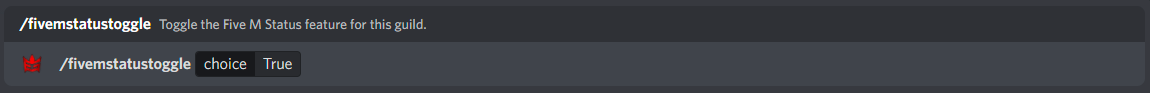
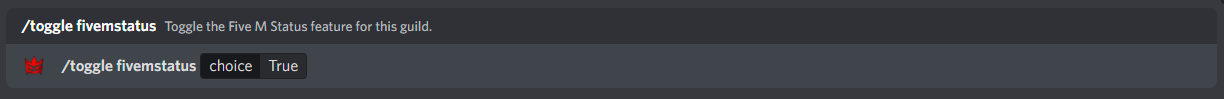
(v2.2.7) Match new toggle subcommands
+ Changed all feature pages to match the new toggle subcommands.

Changed region(s): [[0.0, 0.5376, 0.2739, 0.8387], [0.0, 0.1935, 0.3957, 0.3441]]

diff --git a/docs/configurationcommands.md b/docs/configurationcommands.md
@@ -11,18 +11,18 @@ All commands are listed in alphabetical order! Each command comes with an exampl
 | Command        |    Example    |  Usage  |  Permission  |  Timeout  |
 | -------------  | :-----------: | -----  |  ----------  |  -------  |
 | /configinfo    | /configinfo | Return information about your guild's configuration of Elite Bot! | N/A | N/A |
-| /createvctoggle    | /createvctoggle [true/false] | Toggle the the create voice chat feature for this guild. | N/A | N/A |
+| /toggle createvc    | /toggle createvc [true/false] | Toggle the the create voice chat feature for this guild. | N/A | N/A |
 | /djrole        | /djrole [@role] | Set your DJ role for the music feature! | Manage Roles | N/A |
-| /djtoggle    | /djtoggle [true/false] | Toggle DJ for the music feature! | Administrator | N/A |
+| /toggle djonly    | /toggle djonly [true/false] | Toggle DJ for the music feature! | Administrator | N/A |
 | /fivemstatusconfig    | /fivemstatusconfig [#channel] [serverip] | Set the Five M status channel and server IP for the guild. | Administrator | N/A |
 | /fivemstatusembed    | /fivemstatusembed [title] [description] | Customise the description of the Five M status embed. | Administrator | N/A |
 | /fivemstatusresend    | /fivemstatusresend | Customise the description of the Five M status embed. | Administrator | N/A |
-| /fivemstatustoggle    | /fivemstatustoggle [true/false] | Toggle the Five M Status feature for this guild. | Administrator | N/A |
+| /toggle fivemstatus    | /toggle fivemstatus [true/false] | Toggle the Five M Status feature for this guild. | Administrator | N/A |
 | /joinroleadd    | /joinroleadd [@role] | Add a role to give to users on join to this guild. | Manage Roles | N/A |
 | /joinrolecheck    | /joinrolecheck | Check the roles that are given to users on join to this guild. | Manage Roles | N/A |
 | /joinroleremove    | /joinroleremove [@role] | Remove a role to give to users on join from this guild. | Manage Roles | N/A |
 | /logchannel    | /logchannel [#channel] | Set the logs channel for the guild. | Administrator | N/A |
-| /logtoggle    | /logtoggle [true/false] | Toggle the log feature for this guild. | Administrator | N/A |
+| /toggle logging    | /toggle logging [true/false] | Toggle the log feature for this guild. | Administrator | N/A |
 | /roleselectionadd    | /roleselectionadd [menuname] [@role] [description] [emoji] | Add a role into the role selection menu. | Manage Roles | N/A |
 | /roleselectioncheck    | /roleselectioncheck | Check the current role selection menus in your guild! | Manage Roles | N/A |
 | /roleselectioncreate    | /roleselectioncreate [menuname] [menudescription] | Create a new role selection menu. | Administrator | N/A |
@@ -30,15 +30,15 @@ All commands are listed in alphabetical order! Each command comes with an exampl
 | /roleselectionmenu    | /roleselectionmenu [menuname] | Generate a role selection menu! | Manage Roles | N/A |
 | /roleselectionremove    | /roleselectionremove [menuname] [@role] | Remove a role into the role selection menu. | Manage Roles | N/A |
 | /suggestionchannel    | /suggestionchannel [#channel] | Set the welcome channel for the guild. | Administrator | N/A |
-| /suggestiontoggle    | /suggestiontoggle [true/false] | Toggle the suggestion feature for this guild. | Administrator | N/A |
+| /toggle suggestion    | /toggle suggestion [true/false] | Toggle the suggestion feature for this guild. | Administrator | N/A |
 | /verificationmenu    | /verificationmenu | Post the verificaiton menu for this guild. | Manage Guild | N/A |
 | /verificationsettings    | /verificationsettings [description] [roletogive] | Adjust the Verification feature settings for this guild. | Administrator | N/A |
-| /verificationtoggle    | /verificationtoggle [true/false] | Toggle the Verification feature for this guild. | Administrator | N/A |
-| /voicecounttoggle    | /voicecounttoggle [true/false] | Toggle the voice chat member count feature for this guild. | Administrator | N/A |
+| /toggle verification    | /toggle verification [true/false] | Toggle the Verification feature for this guild. | Administrator | N/A |
+| /toggle voicecount    | /toggle voicecount [true/false] | Toggle the voice chat member count feature for this guild. | Administrator | N/A |
 | /welcomechannel    | /welcomechannel [#channel] | Set the welcome channel for the guild. | Administrator | N/A |
 | /welcomeembed    | /welcomeembed [title] [description] | Customise some features of the welcome embed for your guild. | Administrator | N/A |
-| /welcometoggle    | /welcometoggle [true/false] | Toggle the welcome feature for this guild. | Administrator | N/A |
+| /toggle welcome    | /toggle welcome [true/false] | Toggle the welcome feature for this guild. | Administrator | N/A |
 | /xproleadd    | /xproleadd [level] [@role] | Add a role to give to users when reaching a level threshold. | Manage Roles | N/A |
 | /xproleremove    | /xproleremove [@role] | Remove a role to give to users when reaching a level threshold. | Manage Roles | N/A |
 | /xpsystemsettings    | /xpsystemsettings [xpmin] [xpmax] [xpmultiplier] [#levelupchannel] [intervalvc] [#afkvc] | Customise settings for the XP system feature for your guild. | Administrator | N/A |
-| /xpsystemtoggle    | /xpsystemtoggle [true/false] | Toggle the XP system feature for this guild. | Administrator | N/A |
+| /toggle xpsystem    | /toggle xpsystem [true/false] | Toggle the XP system feature for this guild. | Administrator | N/A |

diff --git a/docs/utilitiescommands.md b/docs/utilitiescommands.md
@@ -13,14 +13,14 @@ All commands are listed in alphabetical order! Each command comes with an exampl
 | /about        | /about | Information about Elite Bot! | N/A | N/A |
 | /avatar        | /avatar [@user] | What user's avatar should be returned? | N/A | N/A |
 | /botinfo        | /botinfo | Return information about Elite Bot! | N/A | N/A |
-| /bugreport        | /bugreport [title] [description] [Option: imgurl] | Have you encountered a bug? Use this command to send a bug report directly to the developer. | N/A | N/A |
+| /bugreport        | /bugreport [title] [description] [reapeatability: once, few times, always] [Optional: imgurl] | Have you encountered a bug? Use this command to send a bug report directly to the developer. | N/A | N/A |
 | /giveawayedit        | /giveawayedit [giveawayid] [changeprize/winneramount/addtime/subtime] | Edit the prize of a giveaway now within your guild. | Manage Events | N/A |
 | /giveawayend        | /giveawayend [giveawayid] | End a giveaway now within your guild. | Manage Events | N/A |
 | /giveawayreroll        | /giveawayreroll [giveawayid] [howmany] | Re-roll a giveaway within your guild. | Manage Events | N/A |
 | /giveawaystart        | /giveawaystart [duration] [prize] [winners] [#channel] | Start a new giveaway for your guild. | Manage Events | N/A |
 | /help        | /help | Get information about my commands! | N/A | N/A |
-| /quickpoll        | /quickpoll [choice1] [choice2] [#channel] | Create a 2 choice quick poll in a channel! | N/A | N/A |
-| /shortenurl        | /shortenurl [url] | UNDER DEVELOPMENT - Shorten a long URL. | N/A | N/A |
+| /quickpoll        | /quickpoll [question] [choice1] [choice2] [#channel] | Create a 2 choice quick poll in a channel! | N/A | N/A |
+| /shortenurl        | /shortenurl [url] | Shorten a long URL. Powered by teamsnaily.com | N/A | N/A |
 | /suggest        | /suggest [title] [description] | Suggest something within this guild. | N/A | N/A |
 | /userinfo        | /userinfo [@user] | Return information about a user's Discord account! | N/A | N/A |
 | /xpcurrent        | /xpcurrent [@user] | Check the XP of any user in the guild. | N/A | N/A |

diff --git a/docs/fivemstatusfeature.md b/docs/fivemstatusfeature.md
@@ -12,7 +12,7 @@ This feature is useful for Discord servers that run a Five M (GTA V Modification
 
 ## Enabling Five M Server Status
 
-By default, the Five M Server Status is toggled off. Firstly, use the "/fivemstatustoggle" command within your guild returning true to enable (or false to disable).
+By default, the Five M Server Status is toggled off. Firstly, use the "/toggle fivemstatus" command within your guild returning true to enable (or false to disable).
 
 An Example of toggling the Five M Server Status:
 

diff --git a/docs/vccreatefeature.md b/docs/vccreatefeature.md
@@ -8,7 +8,7 @@ slug: /vc-create-feature
 
 (sorry for the mega weird feature name, had no clue what to name it :D)
 
-By default, the Join to Create VC Feature is toggled off. You can use the "/createvctoggle" command within your guild returning true to enable (or false to disable).
+By default, the Join to Create VC Feature is toggled off. You can use the "/toggle createvc" command within your guild returning true to enable (or false to disable).
 
 An Example of toggling the Join to Create VC feature:
 

diff --git a/docs/vcmembercountfeature.md b/docs/vcmembercountfeature.md
@@ -6,7 +6,7 @@ slug: /vc-member-count-feature
 
 ## Configuring the Member Count
 
-By default, the Member Count Feature is toggled off. You can use the "/voicecounttoggle" command within your guild returning true to enable (or false to disable).
+By default, the Member Count Feature is toggled off. You can use the "/toggle voicecount" command within your guild returning true to enable (or false to disable).
 
 An Example of toggling the Member Count feature:
 

diff --git a/docs/welcomefeature.md b/docs/welcomefeature.md
@@ -6,7 +6,7 @@ slug: /welcome-feature
 
 ## Enabling the Welcome Feature
 
-By default, the Welcome feature is toggled off. Firstly, use the "/welcometoggle" command within your guild returning true to enable (or false to disable).
+By default, the Welcome feature is toggled off. Firstly, use the "/toggle welcome" command within your guild returning true to enable (or false to disable).
 
 An Example of toggling the Welcome feature:
 

diff --git a/docs/loggingfeature.md b/docs/loggingfeature.md
@@ -6,7 +6,7 @@ slug: /logging-feature
 
 ## Enabling Logging Feature
 
-By default, the logging feature is toggled off. Firstly, use the "/logtoggle" command within your guild returning true to enable (or false to disable).
+By default, the logging feature is toggled off. Firstly, use the "/toggle logging" command within your guild returning true to enable (or false to disable).
 
 An Example of toggling the XP System:
 

diff --git a/docs/xpsystem.md b/docs/xpsystem.md
@@ -6,7 +6,7 @@ slug: /xp-system
 
 ## Enabling the XP System
 
-By default, the XP System is toggled off. Firstly, use the "/xpsystemtoggle" command within your guild returning true to enable (or false to disable).
+By default, the XP System is toggled off. Firstly, use the "/toggle xpsystem" command within your guild returning true to enable (or false to disable).
 
 An Example of toggling the XP System:
 

diff --git a/docs/verificationfeature.md b/docs/verificationfeature.md
@@ -6,7 +6,7 @@ slug: /verification-feature
 
 ## Toggling the feature
 
-Firstly, you can toggle the feature on using the "/verificationtoggle" command within your guild returning true to enable (or false to disable).
+Firstly, you can toggle the feature on using the "/toggle verification" command within your guild returning true to enable (or false to disable).
 
 An example of toggling the feature on:
 

diff --git a/docs/suggestfeature.md b/docs/suggestfeature.md
@@ -6,7 +6,7 @@ slug: /suggest-feature
 
 ## Toggling the feature
 
-Firstly, you can toggle the feature on using the "/suggestiontoggle" command within your guild returning true to enable (or false to disable).
+Firstly, you can toggle the feature on using the "/toggle suggestion" command within your guild returning true to enable (or false to disable).
 
 An example of toggling the feature on:
 

diff --git a/docs/musicfeature.md b/docs/musicfeature.md
@@ -6,7 +6,7 @@ slug: /music-feature
 
 ## Configuring DJ mode
 
-Setting up DJ mode is very easy. Firstly you must toggle DJ only mode using the "/djtoggle" command and setting it to either true of false.
+Setting up DJ mode is very easy. Firstly you must toggle DJ only mode using the "/toggle djonly" command and setting it to either true of false.
 
 An example of toggling the feature on:
 
